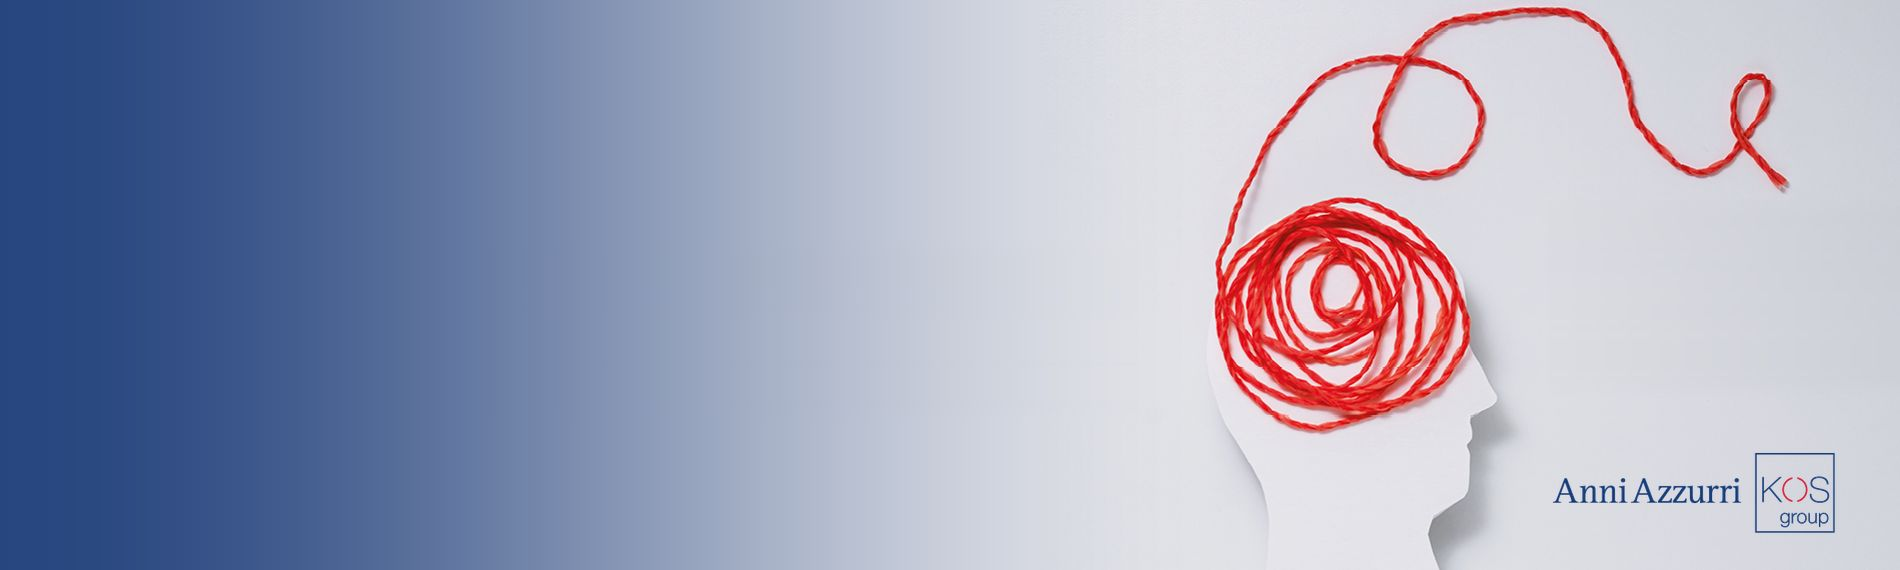
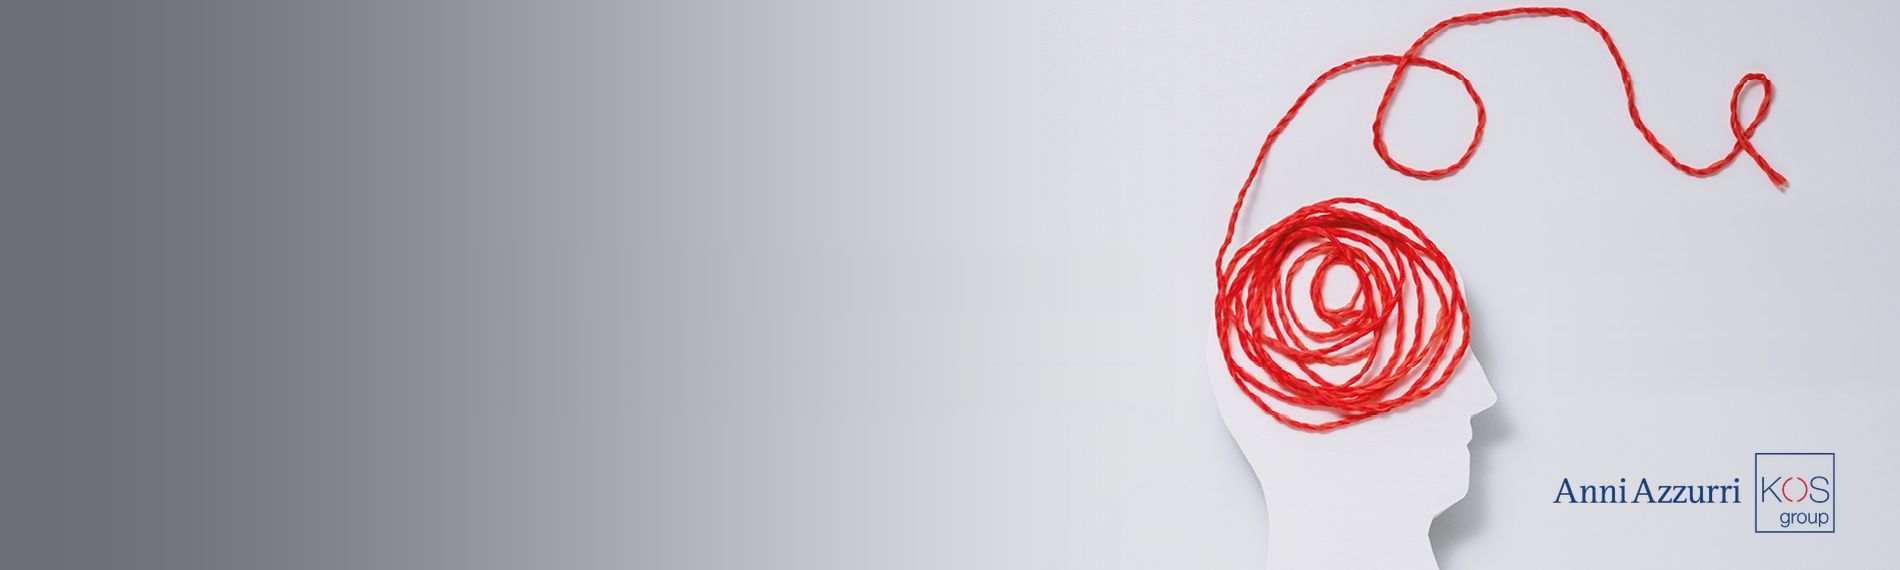
Extra aa-convegno-parkinson: slide della home sul chunk di produzione, sfumatura grigia, alt di Muba e OSS
Claude-Session: https://claude.ai/code/session_01Rr1X44gsg7BUwMzrRvYrc2

diff --git a/anniazzurri/baseline/chunks/heading-home2.html b/anniazzurri/baseline/chunks/heading-home2.html
@@ -4,15 +4,14 @@
         <div class="carousel carousel-full" data-flickity='{ "autoPlay": 8000}'>
 
           <div class="carousel-cell w-100 xh-100 p-0">
-            <div class="h-100 bg-cover-center position-relative d-flex align-items-center" style="background-image: url('/assets/img/banner-news-il-mantello-del-custode.jpg')" stripe-one-col-media-component>
+            <div class="h-100 bg-cover-center position-relative d-flex align-items-center" stripe-one-col-media-component>[[immagine? &src=`/assets/img/muba-natale-slider.jpg` &alt=`Operatori sanitari al lavoro con gli ospiti, immagine di OSSigeno Puro` &class=`kos-sfondo` &sizes=`100vw`]]
               <div class="overlay"></div>
               <div class="container position-relative">
                 <div class="row content-container align-items-center">
-                  <div class="col-12 col-md-8 col-lg-7 text-white">
-                    <p class="font-weight-bold mb-4">Convegno Anni Azzurri</p>
-                    <h2 id="click">Il mantello del Custode</h2>
-<p class="fs-5 lh-sm">Dare voce alle scelte - Dare senso alla cura<br>Disposizioni anticipate di trattamento (DAT) e Bioetica del Fine Vita</p>
-                    <a href="[[~560]]" class="btn btn-azure text-white">Per programma e iscrizioni</a>
+                  <div class="col-12 col-md-8 col-lg-6 text-white">
+                    <p class="font-weight-bold mb-4">Il progetto Anni Azzurri e Muba</p>
+                    <h2 id="click">Creiamo insieme le forme del nostro Natale</h2>
+                    <a href="[[~589]]" class="btn btn-azure text-white">Scopri il progetto</a>
                   </div>
                 </div>
               </div>
@@ -20,7 +19,7 @@
           </div>
 
           <div class="carousel-cell w-100 xh-100 p-0">
-            <div class="h-100 bg-cover-center position-relative d-flex align-items-center" style="background-image: url('/assets/img/ossigeno-puro-slider.jpg')" stripe-one-col-media-component>
+            <div class="h-100 bg-cover-center position-relative d-flex align-items-center" stripe-one-col-media-component>[[immagine? &src=`/assets/img/ossigeno-puro-slider.jpg` &alt=`Il tavolo del laboratorio con ospiti, riviste e decorazioni` &class=`kos-sfondo` &sizes=`100vw`]]
               <div class="overlay"></div>
               <div class="container position-relative">
                 <div class="row content-container align-items-center">
@@ -35,7 +34,7 @@
           </div>
 
           <div class="carousel-cell w-100 xh-100 p-0">
-            <div class="h-100 bg-cover-center position-relative d-flex align-items-center" style="background-image: url('/assets/img/azzurramente-slider.jpg')" stripe-one-col-media-component>
+            <div class="h-100 bg-cover-center position-relative d-flex align-items-center" stripe-one-col-media-component>[[immagine? &src=`/assets/img/azzurramente-slider.jpg` &alt=`Ospiti al tavolo con le carte del gioco AzzurraMente` &class=`kos-sfondo` &sizes=`100vw`]]
               <div class="overlay"></div>
               <div class="container position-relative">
                 <div class="row content-container align-items-center">
@@ -50,7 +49,7 @@
           </div>
 
           <div class="carousel-cell w-100 h-100 p-0">
-            <div class="h-100 bg-cover-center position-relative d-flex align-items-center" style="background-image: url('/assets/img/nonni-per-tutti-slider.jpg')" stripe-one-col-media-component>
+            <div class="h-100 bg-cover-center position-relative d-flex align-items-center" stripe-one-col-media-component>[[immagine? &src=`/assets/img/nonni-per-tutti-slider.jpg` &alt=`Nonno e bambina sul divano, immagine del progetto Nonni per tutti` &class=`kos-sfondo` &sizes=`100vw`]]
               <div class="overlay"></div>
               <div class="container position-relative">
                 <div class="row content-container align-items-center">
@@ -65,7 +64,7 @@
           </div>
           
           <div class="carousel-cell w-100 h-100 p-0">
-            <div class="h-100 bg-cover-center position-relative d-flex align-items-center" style="background-image: url('/assets/img/home-slide-2.jpg')" stripe-one-col-media-component>
+            <div class="h-100 bg-cover-center position-relative d-flex align-items-center" stripe-one-col-media-component>[[immagine? &src=`/assets/img/home-slide-2.jpg` &alt=`Operatrice che segue gli ospiti durante un'attività di scrittura al tavolo` &class=`kos-sfondo` &sizes=`100vw`]]
               <div class="overlay"></div>
               <div class="container position-relative">
                 <div class="row content-container align-items-center">

diff --git a/anniazzurri/elements/chunks/heading-home2.html b/anniazzurri/elements/chunks/heading-home2.html
@@ -1,17 +1,32 @@
- <div class="container-fluid">
+<div class="container-fluid">
     <div class="row">
       <div class="col-12 px-0">
         <div class="carousel carousel-full" data-flickity='{ "autoPlay": 8000}'>
 
           <div class="carousel-cell w-100 xh-100 p-0">
-            <div class="h-100 bg-cover-center position-relative d-flex align-items-center" stripe-one-col-media-component>[[immagine? &src=`/assets/img/banner-news-convegno-parkinson-realta-prospettive.jpg` &alt=`Profilo di una testa in carta con un filo rosso aggrovigliato, immagine del convegno La malattia di Parkinson` &class=`kos-sfondo` &sizes=`100vw` &priorita=`1`]]
+            <div class="h-100 bg-cover-center position-relative d-flex align-items-center" stripe-one-col-media-component>[[immagine? &src=`/assets/img/muba-natale-slider.jpg` &alt=`Il tavolo del laboratorio con ospiti, riviste e decorazioni` &class=`kos-sfondo` &sizes=`100vw` &priorita=`1`]]
               <div class="overlay"></div>
               <div class="container position-relative">
                 <div class="row content-container align-items-center">
-                  <div class="col-12 col-md-8 col-lg-7 text-white">
+                  <div class="col-12 col-md-8 col-lg-6 text-white">
+                    <p class="font-weight-bold mb-4">Il progetto Anni Azzurri e Muba</p>
+                    <h2 id="click">Creiamo insieme le forme del nostro Natale</h2>
+                    <a href="[[~589]]" class="btn btn-azure text-white">Scopri il progetto</a>
+                  </div>
+                </div>
+              </div>
+            </div>
+          </div>
+
+          <div class="carousel-cell w-100 xh-100 p-0">
+            <div class="h-100 bg-cover-center position-relative d-flex align-items-center" stripe-one-col-media-component>[[immagine? &src=`/assets/img/convegno-parkinson-slider.jpg` &srcMobile=`/assets/img/convegno-parkinson-slider-mobile.jpg` &alt=`Profilo di una testa in carta con un filo rosso aggrovigliato, immagine del convegno La malattia di Parkinson` &class=`kos-sfondo` &sizes=`100vw`]]
+              <div class="overlay"></div>
+              <div class="container position-relative">
+                <div class="row content-container align-items-center">
+                  <div class="col-12 col-md-8 col-lg-6 text-white">
                     <p class="font-weight-bold mb-4">Convegno Anni Azzurri</p>
                     <h2 id="click">La malattia di Parkinson</h2>
-<p class="fs-5 lh-sm">Realtà e prospettive<br>12 dicembre 2026 - Cinisello Balsamo (MI)</p>
+                    <p class="fs-5 lh-sm">Realtà e prospettive<br>12 dicembre 2026 - Cinisello Balsamo (MI)</p>
                     <a href="/convegno-parkinson-realta-prospettive" class="btn btn-azure text-white">Per programma e iscrizioni</a>
                   </div>
                 </div>

diff --git a/extra/aa-convegno-parkinson/slide-home.py b/extra/aa-convegno-parkinson/slide-home.py
@@ -1,8 +1,7 @@
 """Slide della home del convegno Parkinson dal banner ricevuto il 12/11 (materiali/banner-home-ricevuto-20261112.jpg).
 
 Toglie titolo e loghi, sposta tutta la foto a destra di 330 px (testa e filo (fuori dalla colonna del testo HTML: 300-950 px a 1920, 160-940 a
-1366), rimette il logo Anni Azzurri | KOS ridotto in basso a destra, aggiunge a sinistra la sfumatura blu per il testo
-bianco. Uscita 1900x570 (proporzione della slide a 1920x1031: 1905x567), JPEG progressivo.
+1366), rimette il logo Anni Azzurri | KOS ridotto in basso a destra, aggiunge a sinistra una sfumatura grigia neutra. Uscita 1900x570 (proporzione della slide a 1920x1031: 1905x567), JPEG progressivo.
 Uso: python3 -I slide-home.py <banner ricevuto> <uscita.jpg> [<uscita-mobile.jpg>]
 """
 import sys
@@ -52,22 +51,21 @@ la = L[..., 3:] / 255
 reg = tela[ly:ly + L.shape[0], lx:lx + L.shape[1]]
 tela[ly:ly + L.shape[0], lx:lx + L.shape[1]] = reg * (1 - la) + L[..., :3] * la
 
-# sfumatura blu a sinistra per il testo bianco
-blu = np.array([30, 62, 122], float)
+# sfumatura grigia a sinistra (stessa tinta neutra della velatura CSS .overlay, nero 60% → 10%): con il solo .overlay
+# il fondo chiaro della foto lascerebbe poco contrasto al testo bianco
+grigio = np.array([58, 60, 66], float)
 x = np.arange(W) / 1250.0
-t = np.clip(1 - x, 0, 1); t = t * t * (3 - 2 * t) * 0.95
-tela = tela * (1 - t[None, :, None]) + blu * t[None, :, None]
-
+t = np.clip(1 - x, 0, 1); t = t * t * (3 - 2 * t) * 0.7
+tela = tela * (1 - t[None, :, None]) + grigio * t[None, :, None]
 img = Image.fromarray(np.clip(tela, 0, 255).astype(np.uint8)).crop((10, 15, 1910, 585))
 img.save(out, 'JPEG', quality=80, optimize=True, progressive=True, subsampling='4:2:0')
 print(out, img.size)
 
 # versione per i telefoni (&srcMobile): la slide è quasi quadrata (375x365) e il testo occupa tutta la larghezza;
-# quadrato attorno alla testa, velatura blu più forte a sinistra perché il testo bianco resti leggibile
+# quadrato attorno alla testa
 if len(sys.argv) > 3:
     q = np.asarray(img.crop((975, 0, 1545, 570)).resize((740, 740), Image.LANCZOS)).astype(float)
-    xs = np.linspace(0, 1, 740)
-    v = (0.88 - 0.38 * xs)[None, :, None]
-    q = q * (1 - v) + blu * v
+    v = (0.62 - 0.25 * np.linspace(0, 1, 740))[None, :, None]   # velatura grigia, il testo occupa tutta la larghezza
+    q = q * (1 - v) + grigio * v
     Image.fromarray(np.clip(q, 0, 255).astype(np.uint8)).save(sys.argv[3], 'JPEG', quality=80, optimize=True, progressive=True)
     print(sys.argv[3], (740, 740))

diff --git a/extra/aa-convegno-parkinson/README.md b/extra/aa-convegno-parkinson/README.md
@@ -108,6 +108,79 @@ slide di `slide-home.html` dopo quella del Mantello, sul ramo da cui si rilascia
 Mai durante la verifica dell'agenzia (9-14/11), che controlla anche `heading-home2`. Finito il Mantello (11/11)
 la sua slide si toglie con lo stesso vincolo.
 
+**12/11:** la slide del Parkinson entra al secondo posto, dopo quella Muba di Natale, nel chunk come è in produzione
+(modificato a mano dopo l'ultimo rilascio: slide Muba, link OSS, `col-lg-6`; copia in
+`anniazzurri/baseline/chunks/heading-home2.html`, letta con `scripts/checks/chunk-contenuto.php`). Nello stesso giro:
+alt delle slide Muba e OSSigeno Puro, che erano scambiati, e `&priorita=`1`` sulla prima slide (immagine più grande della
+pagina, LCP). Immagini da `slide-home.py` sul banner ricevuto il 12/11 (`materiali/`): titolo tolto (è nell'HTML),
+foto spostata a destra fuori dalla colonna del testo, logo Anni Azzurri | KOS ridotto in basso a destra, sfumatura grigia
+neutra a sinistra; 1900x570 (47 KB) e versione per i telefoni 740x740 (32 KB, `&srcMobile`). Manifest `home-slide.json`
+(chunk e immagini), con `scripts/deploy/installa-elementi.php`: stage subito, produzione dopo la verifica dell'agenzia
+(dal 15/11).
+
+## Rilascio
+
+Prima sullo stage (`aa-stage`), con le pagine pubblicate per l'approvazione:
+
+```powershell
+git pull
+git archive -o $env:TEMP\parkinson.tar HEAD extra/aa-convegno-parkinson
+scp $env:TEMP\parkinson.tar aa-stage:
+Start-Sleep 20
+ssh aa-stage "rm -rf ~/parkinson && mkdir ~/parkinson && tar xf ~/parkinson.tar -C ~/parkinson && cd ~/parkinson/extra/aa-convegno-parkinson && php installa.php /www"
+Start-Sleep 20
+ssh aa-stage "cd ~/parkinson/extra/aa-convegno-parkinson && php installa.php /www --scrivi --pubblica"
+```
+
+Se lo stage non ha le pagine del Mantello (riallineamento precedente alla loro creazione), la prova lo dice: modello non trovato.
+
+In produzione, ad approvazione: stessi comandi sul cloud di produzione, con `--scrivi --pubblica`; oppure prima
+`--scrivi` (pagine non pubblicate, anteprima dal manager) e alla conferma `--pubblica --scrivi`.
+Niente rilasci in produzione giovedì 29/10 (giorno prima della consegna dello sprint 1).
+
+Dopo il rilascio:
+
+- invio di prova del modulo: arriva a `manuela.devasini@anniazzurri.it`, conferma all'iscritto con oggetto
+  «Richiesta di iscrizione - La malattia di Parkinson - …», segreteria del Polo Geriatrico in fondo alla mail;
+- l'iscrizione al Mantello del custode continua ad arrivare ai suoi destinatari;
+- pagina evento: testata desktop e mobile, «Scarica la locandina», pulsante «Iscrizioni online», `og:image`
+  (`/assets/img/convegno-parkinson-realta-prospettive.jpg`) nel sorgente.
+
+Immagini o documenti di `files/`, o il chunk del programma, cambiati dopo l'installazione: `php installa.php /www --aggiorna-file`,
+poi con `--scrivi`. Sostituisce solo i file e il chunk diversi, salva i precedenti nel backup, svuota la cache (le varianti
+dello snippet `immagine` si rigenerano da sole) e stampa il comando di ripristino. Pagine e TV non cambiano.
+
+Ripristino: il comando esatto è stampato alla fine dell'installazione
+(`php installa.php /www --ripristina ~/backup-kos-seo-geo/<data>-convegno-parkinson/ripristino.json --scrivi`):
+rimuove le due pagine (con le TV), il chunk e i file copiati. Le iscrizioni già salvate da FormIt restano.
+
+## Testata del Mantello senza velatura
+
+Il template delle pagine evento mette sulla testata una velatura scura da sinistra. Il Parkinson la toglie con una
+regola CSS nel suo chunk del programma; `mantello-senza-velatura.php` aggiunge la stessa regola al chunk
+`programma-560`, che compare solo nella pagina del Mantello. Il template, elemento del progetto, non cambia.
+
+```powershell
+ssh aa-stage "cd ~/parkinson/extra/aa-convegno-parkinson && php mantello-senza-velatura.php /www"
+ssh aa-stage "cd ~/parkinson/extra/aa-convegno-parkinson && php mantello-senza-velatura.php /www --scrivi"
+```
+
+Si ferma se il chunk non ha esattamente uno `</style>`. Se la regola c'è già non fa niente. Il ripristino dal
+backup è stampato alla fine. Dopo il rilascio in produzione va aggiornata la copia
+`anniazzurri/baseline/chunks/programma-560.html`, perché gli strumenti del progetto non lo segnalino come modificato a mano.
+
+## Carosello della home
+
+La slide sta nel chunk `heading-home2`, che è un elemento statico del progetto (AA-18) e fa parte del pacchetto
+`aa-1-6-markup` dello sprint 2: non si modifica da `installa.php`. Quando la pagina è pubblicata si incolla la
+slide di `slide-home.html` dopo quella del Mantello, sul ramo da cui si rilascia:
+
+- variante A (snippet `immagine`) se `heading-home2` esce insieme ad `aa-1-6-markup` (finestra 26/10-6/11);
+- variante B (sfondo CSS) se il convegno si pubblica prima di quel rilascio.
+
+Mai durante la verifica dell'agenzia (9-14/11), che controlla anche `heading-home2`. Finito il Mantello (11/11)
+la sua slide si toglie con lo stesso vincolo.
+
 **12/11:** nel repository la slide del Parkinson (variante A, prima posizione, `&priorita=`1``) prende il posto di
 quella del Mantello, concluso l'11/11. Manifest `home-slide.json` (solo `heading-home2`), installazione con
 `scripts/deploy/installa-elementi.php`: stage subito, produzione dopo la verifica dell'agenzia (dal 15/11). Il banner
